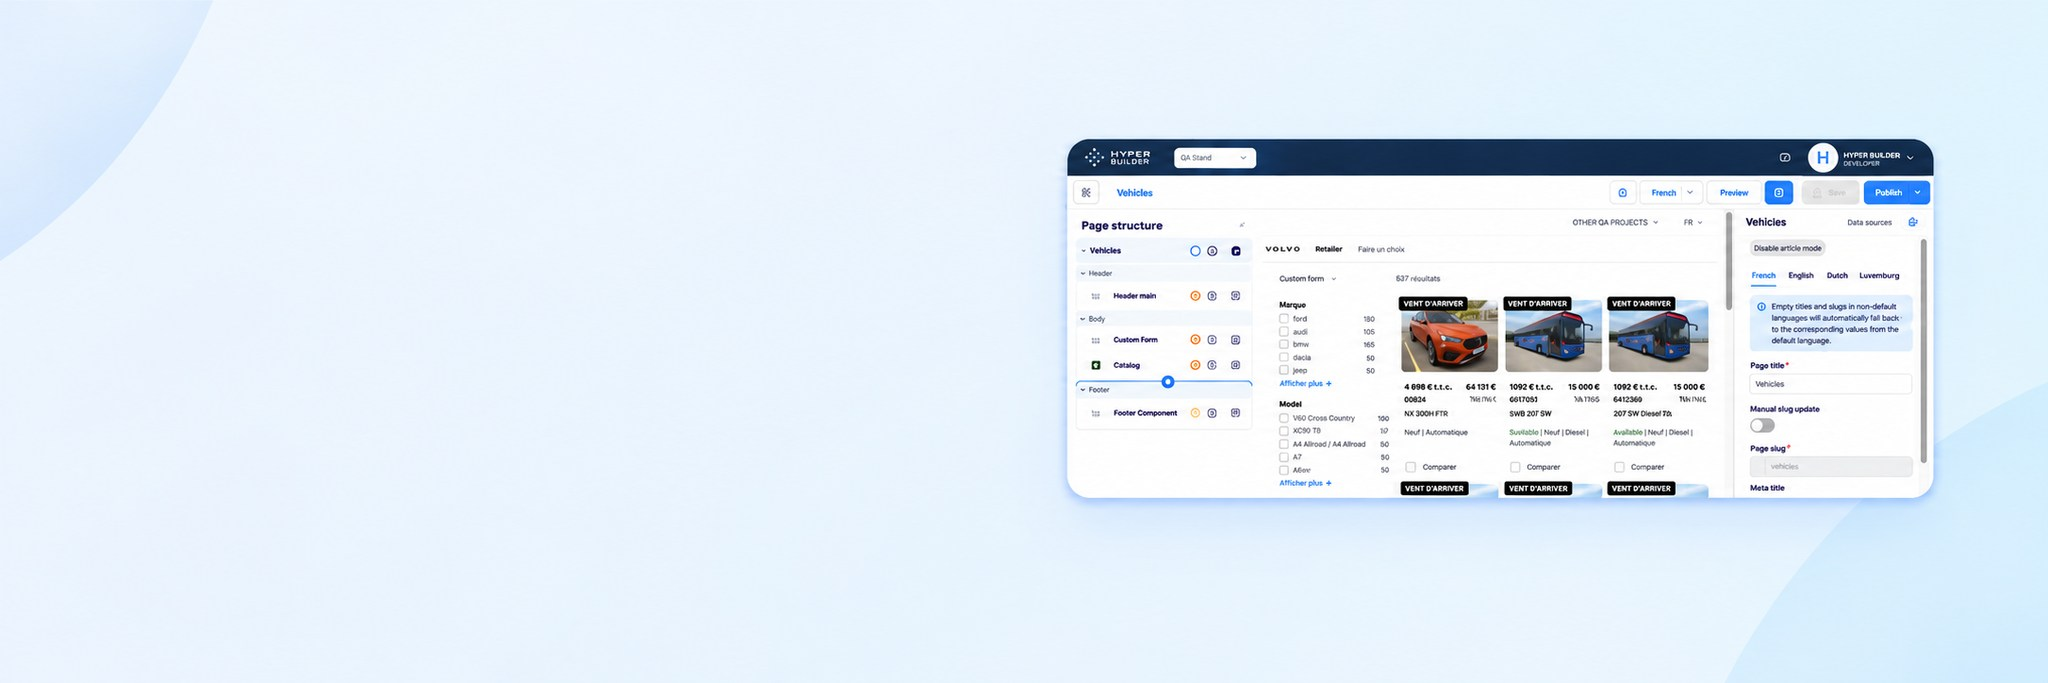
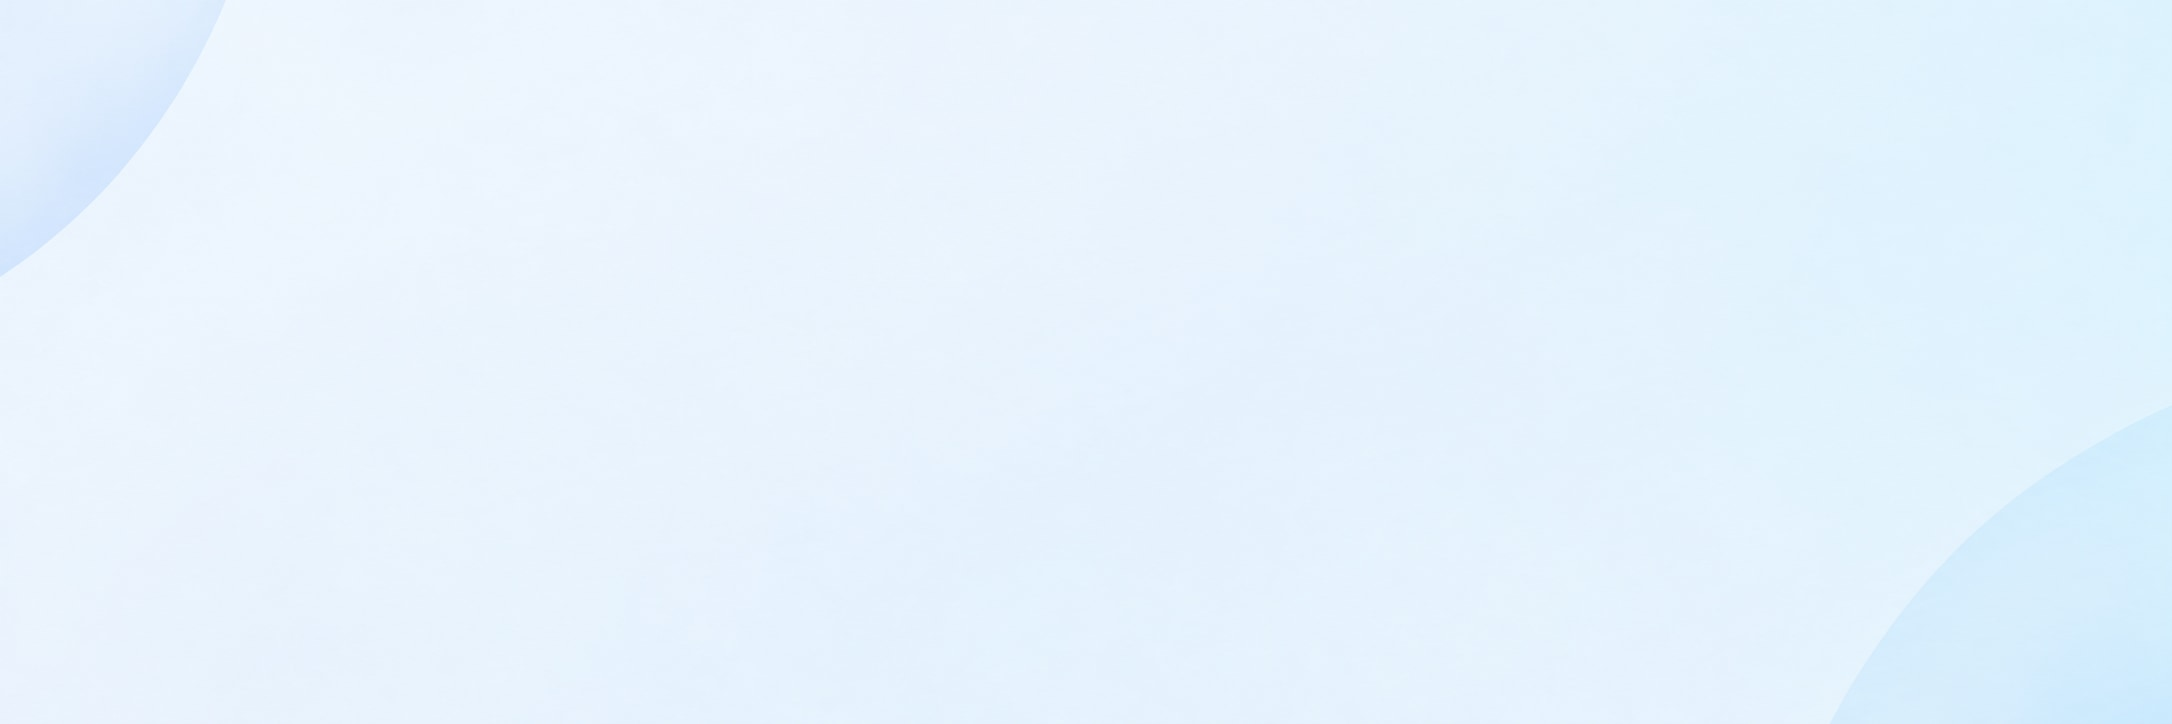
Remove screenshot from hero background and set layout gap to 40px

Changed region(s): [[0.5, 0.1845, 0.9688, 0.7687]]

diff --git a/public/index.html b/public/index.html
@@ -30,7 +30,7 @@
   .crest-leaf { position: absolute; inset: 0; width: 100%; height: 100%; }
   .school-name { font: bold 17px/1.19 var(--serif); letter-spacing: .235em; }
   .hero {
-    background: #e7f2fc url("/events/hero-background.jpg") center / cover no-repeat;
+    background: #e7f2fc url("/events/hero-background.jpg?v=0bdb60e") center / cover no-repeat;
   }
   .hero-layout { display: flex; align-items: center; min-height: 296px; padding-block: 34px 20px; }
   .hero-copy { width: 48%; }
@@ -50,7 +50,7 @@
   .terms button + button { border-left: 1px solid var(--blue); }
   .terms button[aria-pressed="true"], .month[aria-current="date"] { background: var(--blue); color: white; border-color: var(--blue); }
   .terms button:hover:not([aria-pressed="true"]), .month:hover:not([aria-current]) { background: #dbeaf6; }
-  .layout { display: grid; grid-template-columns: minmax(200px, 29fr) minmax(0, 71fr); align-items: start; gap: 15px; padding-block: 33px 58px; }
+  .layout { display: grid; grid-template-columns: minmax(200px, 29fr) minmax(0, 71fr); align-items: start; gap: 40px; padding-block: 33px 58px; }
   .months { display: grid; gap: 12px; }
   .month-scroll-hint { margin: 2px 5px 0; color: var(--muted); font-size: 12px; font-weight: 700; }
   .month { width: 100%; min-height: 73px; display: flex; align-items: center; justify-content: space-between; gap: 8px; padding: 10px clamp(13px, 2vw, 20px); text-align: left; border-radius: 14px; border: 1px solid var(--rule); background: var(--week); }
